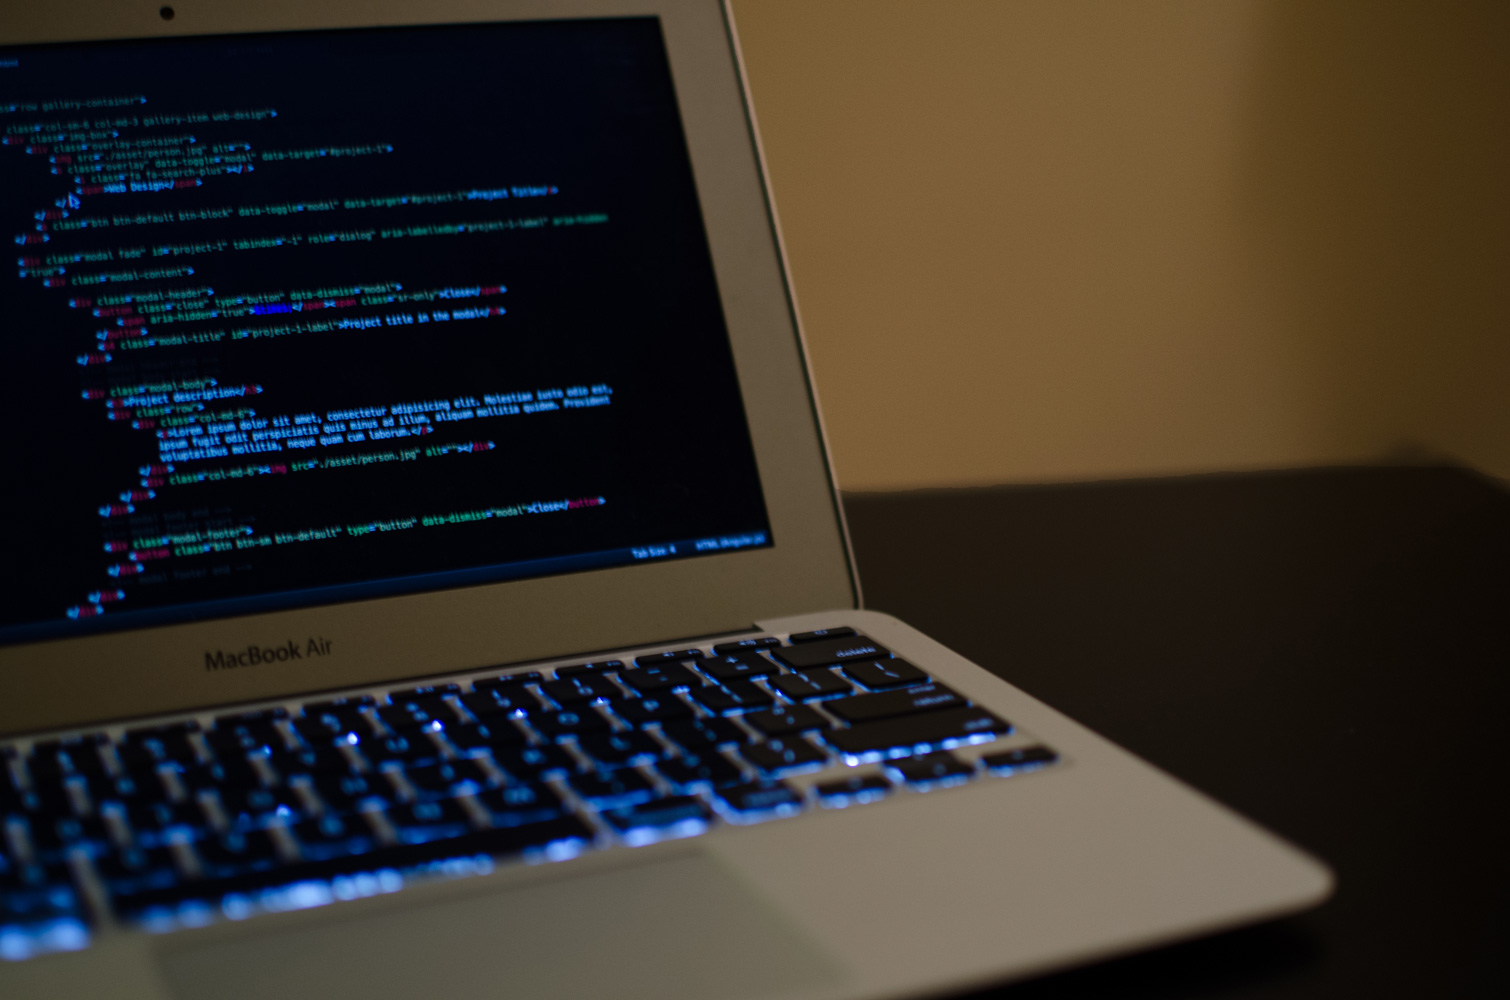
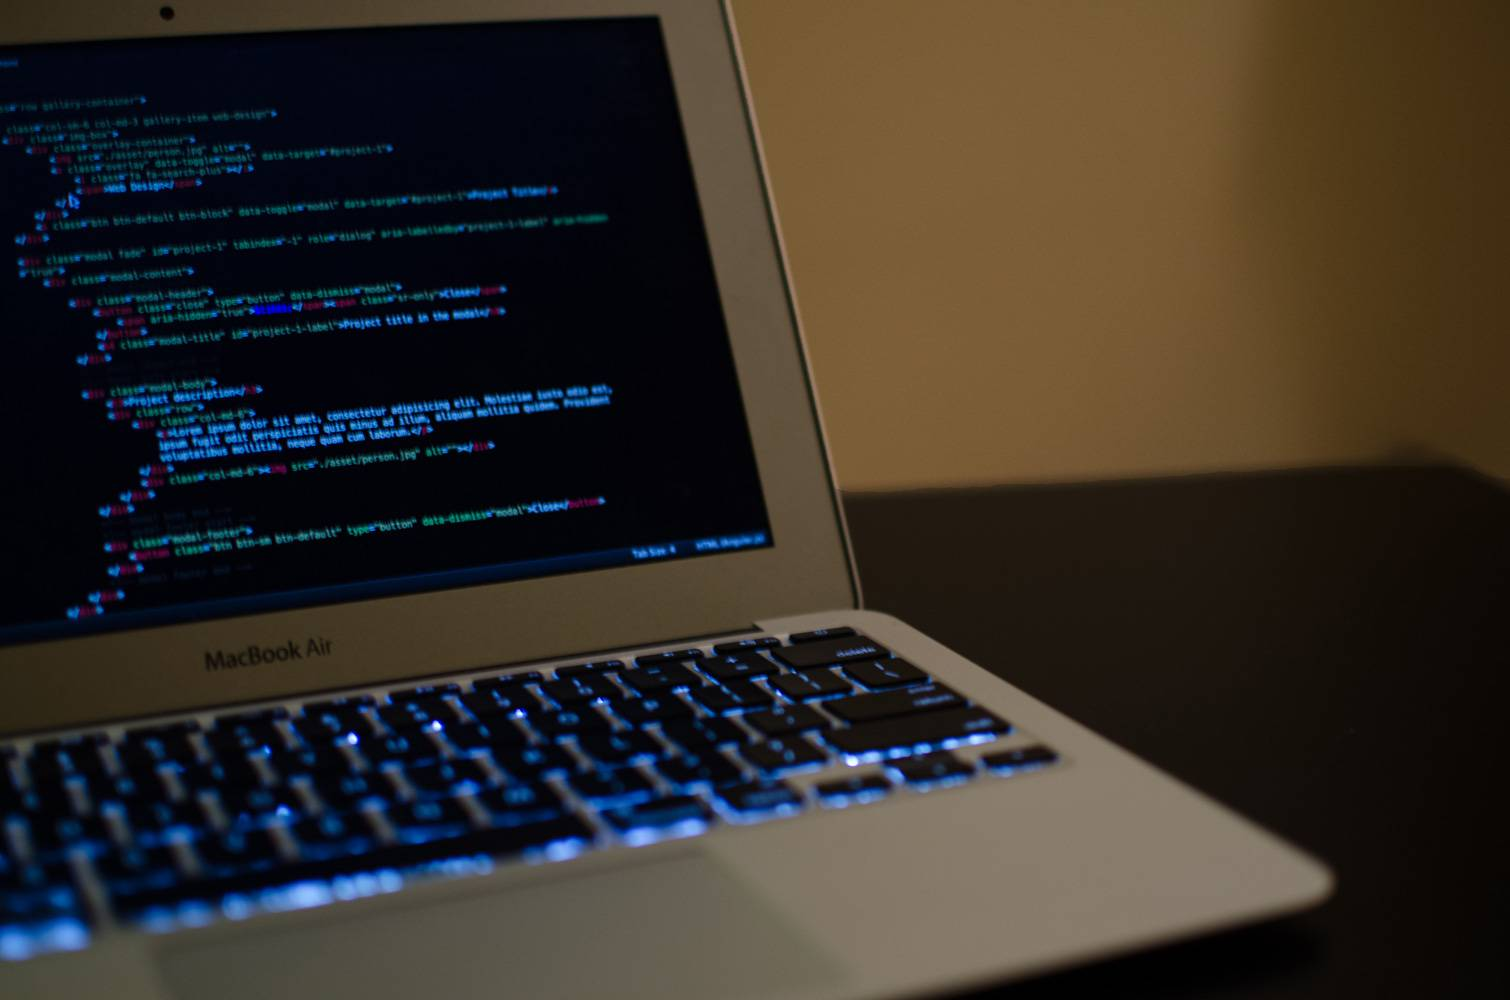
Add google analytics
Compressed a photo, adding google Analytics

Changed region(s): [[0.1245, 0.403, 0.3424, 0.465], [0.249, 0.31, 0.2801, 0.341]]

diff --git a/index.html b/index.html
@@ -42,6 +42,16 @@
 	<!-- Vendor(2/2) -->
 	<script src='./lib/Modernizr/modernizr.custom.56755.js'></script>
 	<script src='./lib/jQuery/jquery.fittext.js'></script>
+	<script>
+	  (function(i,s,o,g,r,a,m){i['GoogleAnalyticsObject']=r;i[r]=i[r]||function(){
+	  (i[r].q=i[r].q||[]).push(arguments)},i[r].l=1*new Date();a=s.createElement(o),
+	  m=s.getElementsByTagName(o)[0];a.async=1;a.src=g;m.parentNode.insertBefore(a,m)
+	  })(window,document,'script','//www.google-analytics.com/analytics.js','ga');
+
+	  ga('create', 'UA-59923195-1', 'auto');
+	  ga('send', 'pageview');
+
+	</script>
 </body>
 </html>
 <!-- - - - - - - CSS - - - - - - -->
